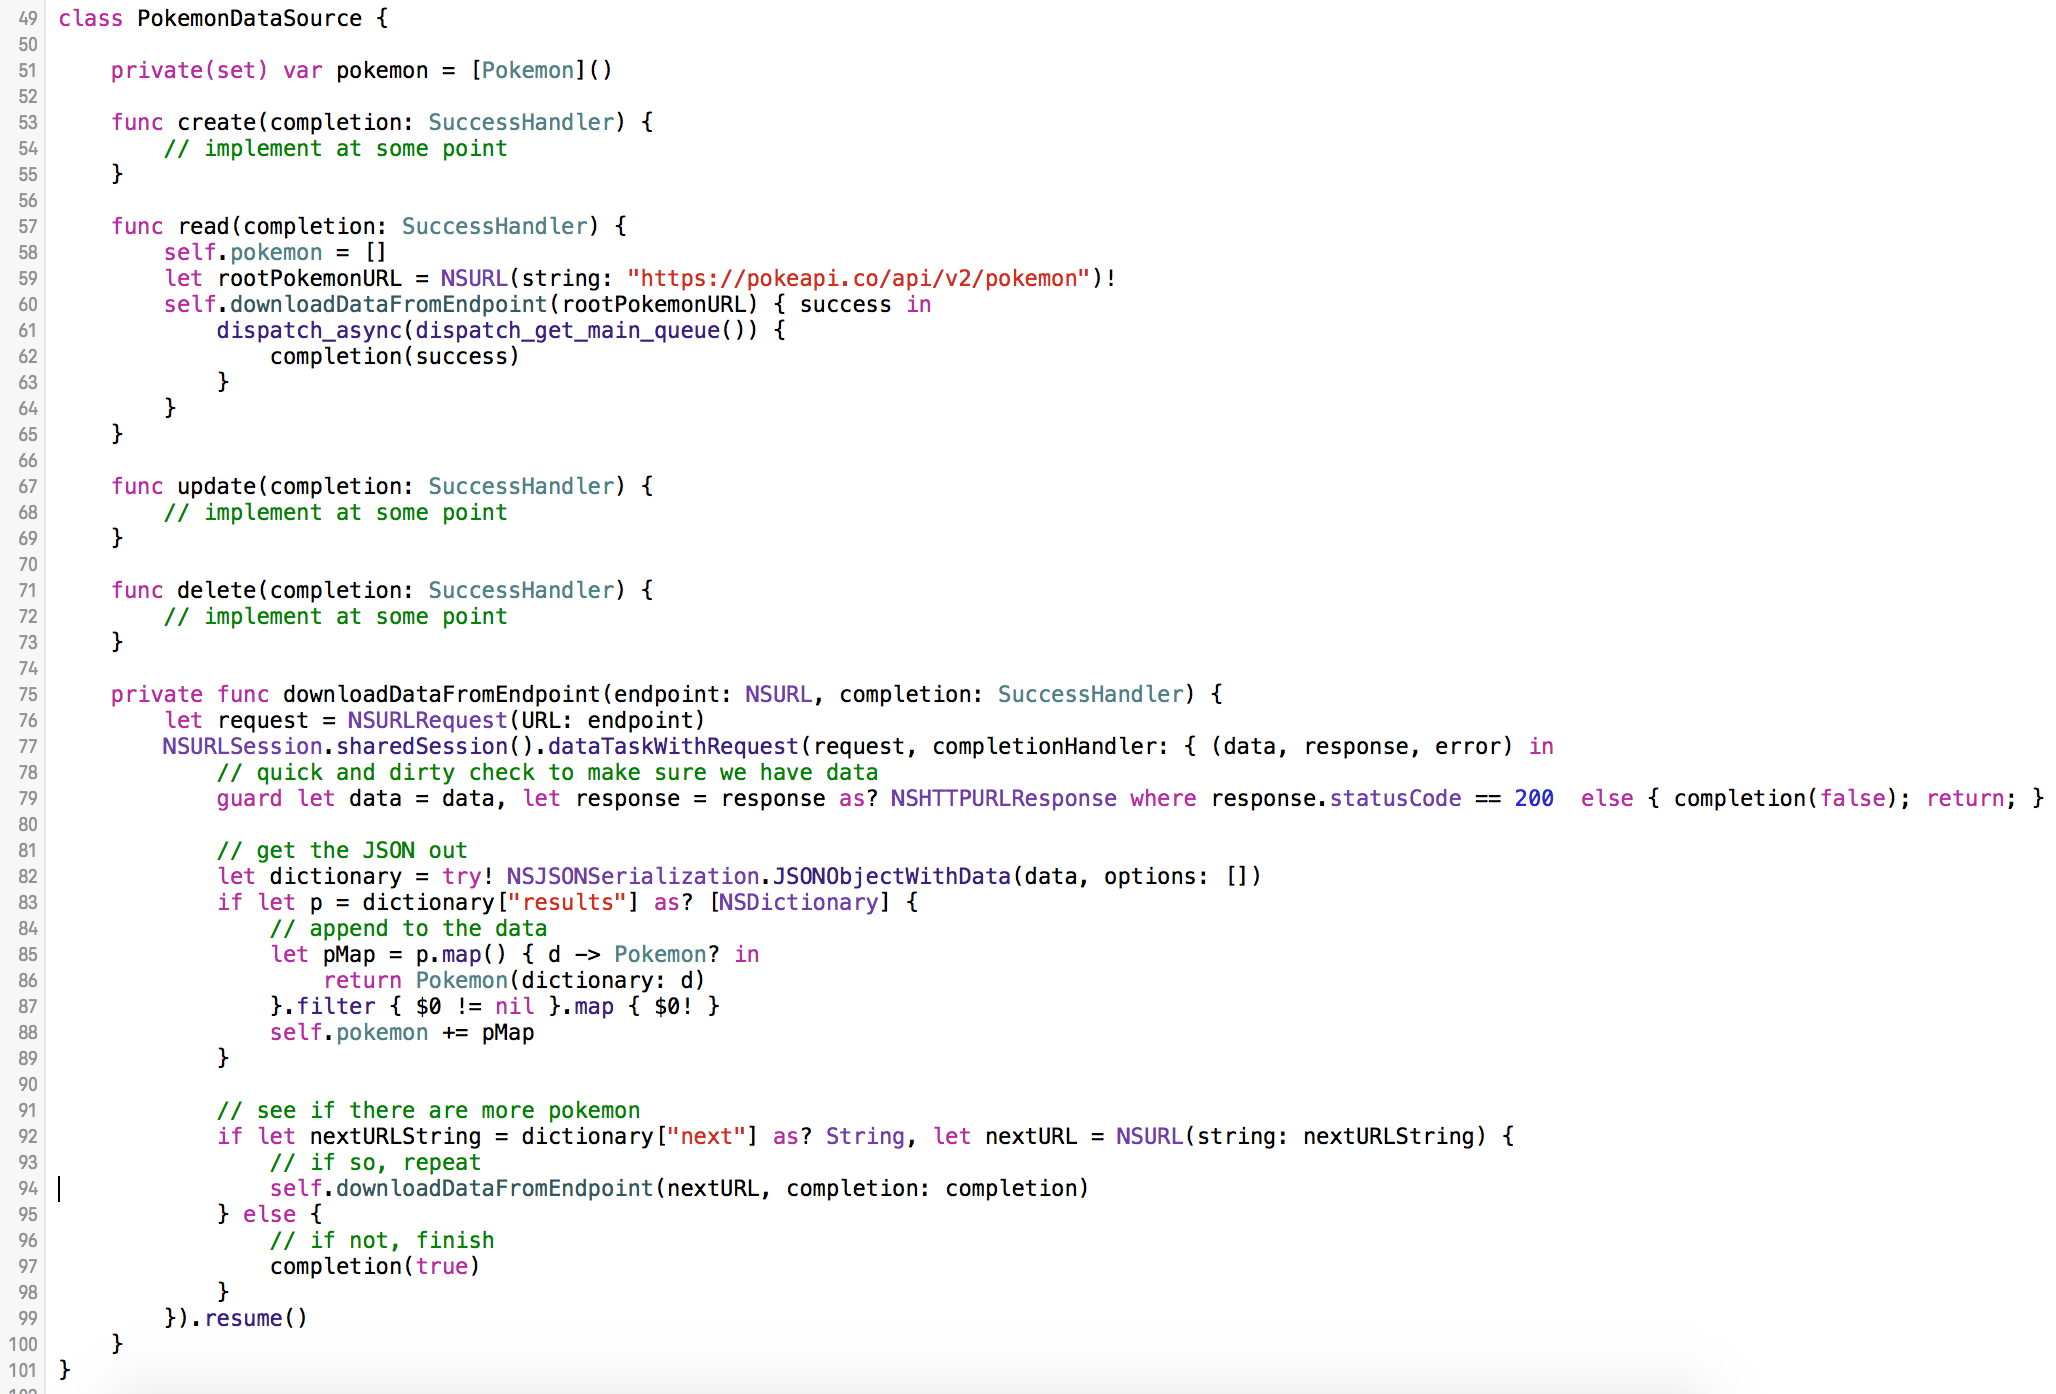
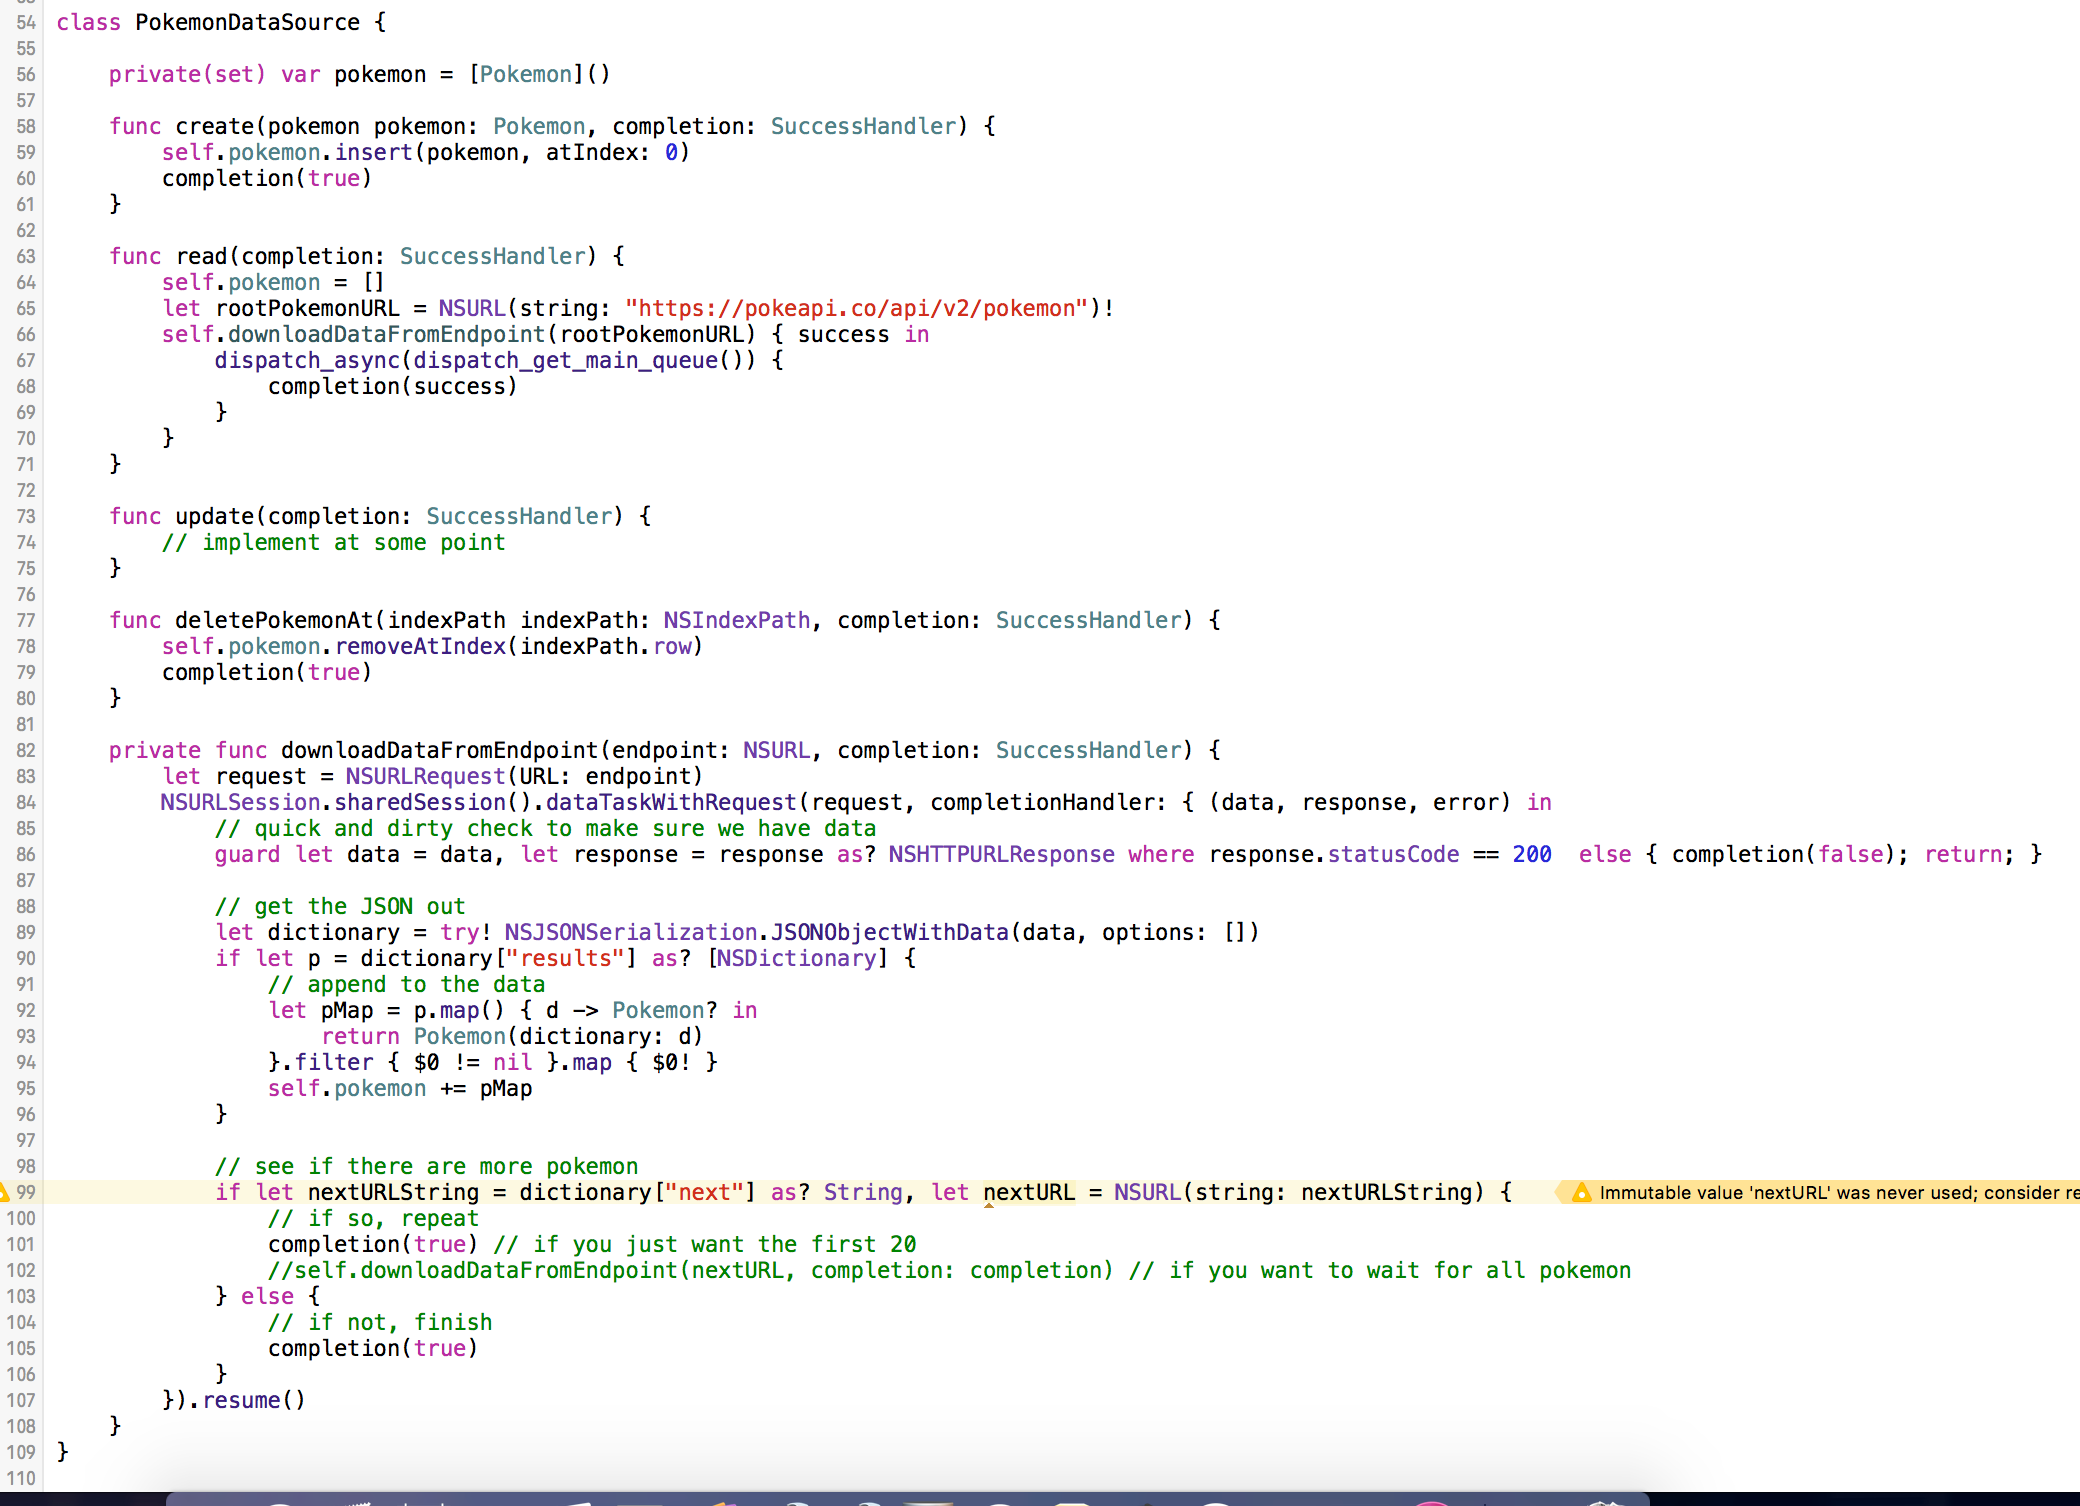
small changes

diff --git a/PokemonVCComplexity/PokemonVCComplexity/PokemonDataSource.swift b/PokemonVCComplexity/PokemonVCComplexity/PokemonDataSource.swift
@@ -74,7 +74,7 @@ class PokemonDataSource {
         // implement at some point
     }
     
-    func deletePokemon(indexPath indexPath: NSIndexPath, completion: SuccessHandler) {
+    func deletePokemonAt(indexPath indexPath: NSIndexPath, completion: SuccessHandler) {
         self.pokemon.removeAtIndex(indexPath.row)
         completion(true)
     }
@@ -98,8 +98,8 @@ class PokemonDataSource {
             // see if there are more pokemon
             if let nextURLString = dictionary["next"] as? String, let nextURL = NSURL(string: nextURLString) {
                 // if so, repeat
-                completion(true)
-                //self.downloadDataFromEndpoint(nextURL, completion: completion)
+                completion(true) // if you just want the first 20
+                //self.downloadDataFromEndpoint(nextURL, completion: completion) // if you want to wait for all pokemon
             } else {
                 // if not, finish
                 completion(true)

diff --git a/PokemonVCComplexity/PokemonVCComplexity/CRUDViewController.swift b/PokemonVCComplexity/PokemonVCComplexity/CRUDViewController.swift
@@ -64,7 +64,7 @@ class CRUDViewController: JSBTableViewController, AddPokemonDelegate, DeletePoke
     }
     
     func viewController(viewController: UIViewController, deletePokemonAtIndexPath indexPath: NSIndexPath) {
-        self.dataSource.deletePokemon(indexPath: indexPath) { success in
+        self.dataSource.deletePokemonAt(indexPath: indexPath) { success in
             self.dataUpdated()
         }
     }
